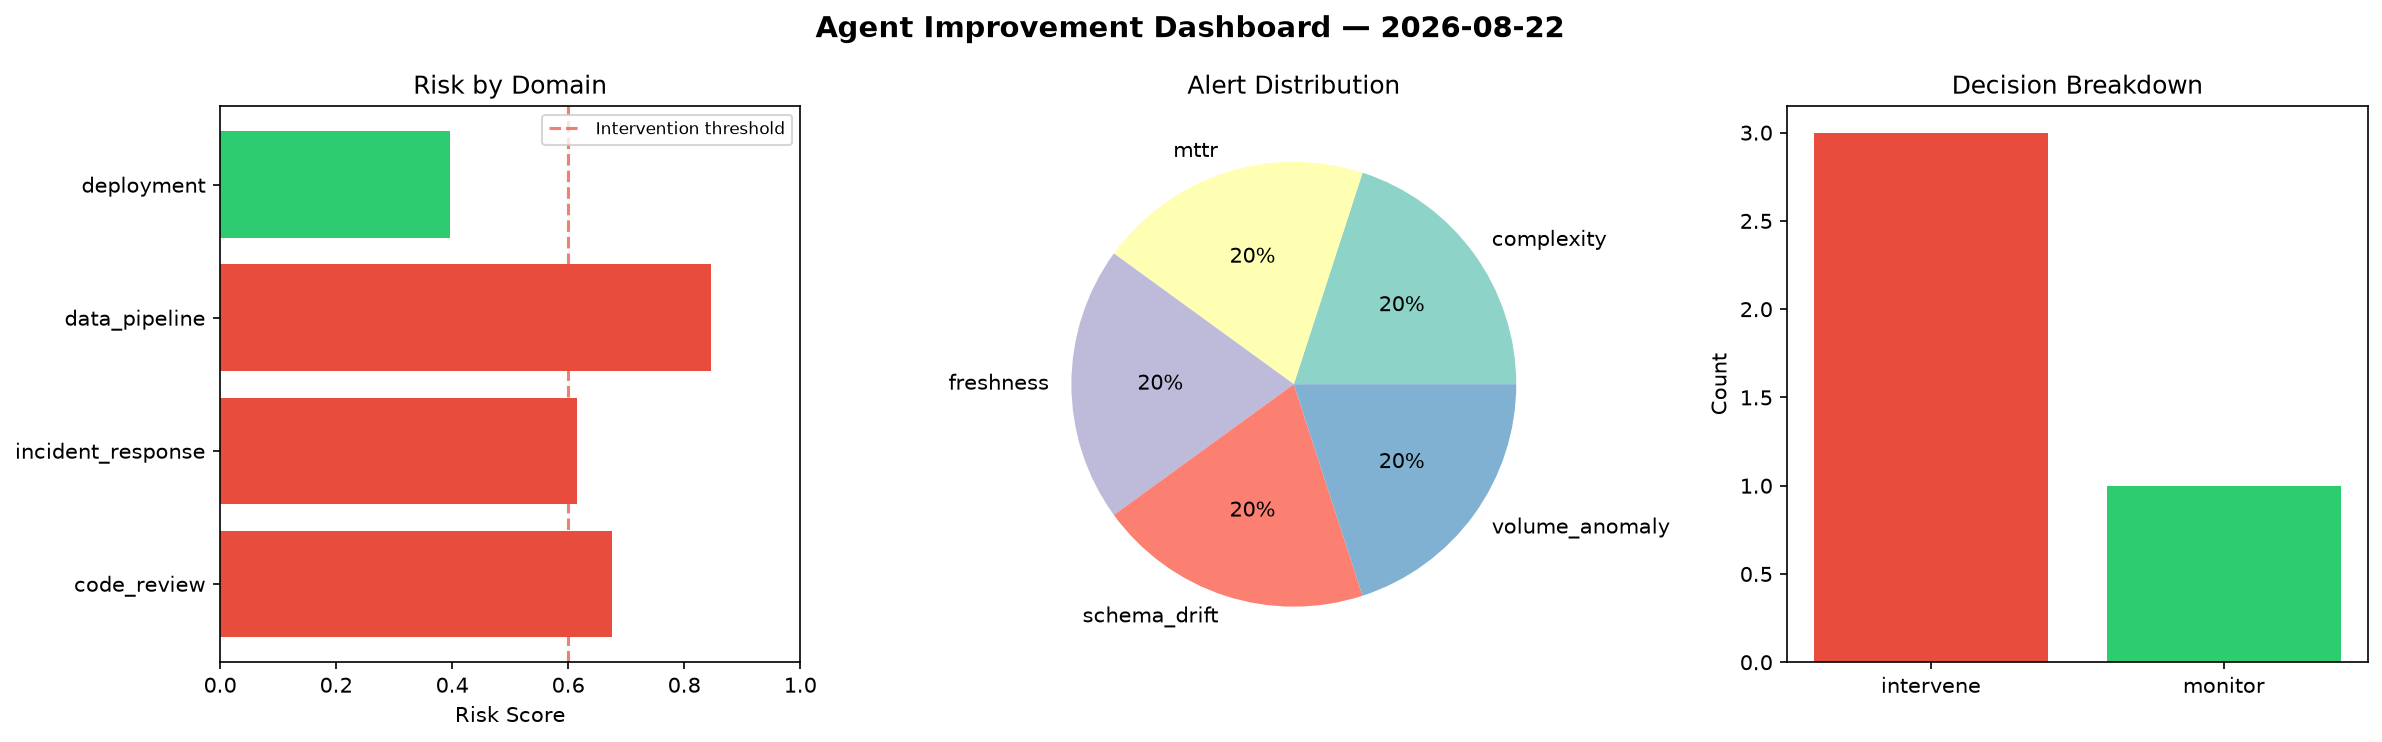
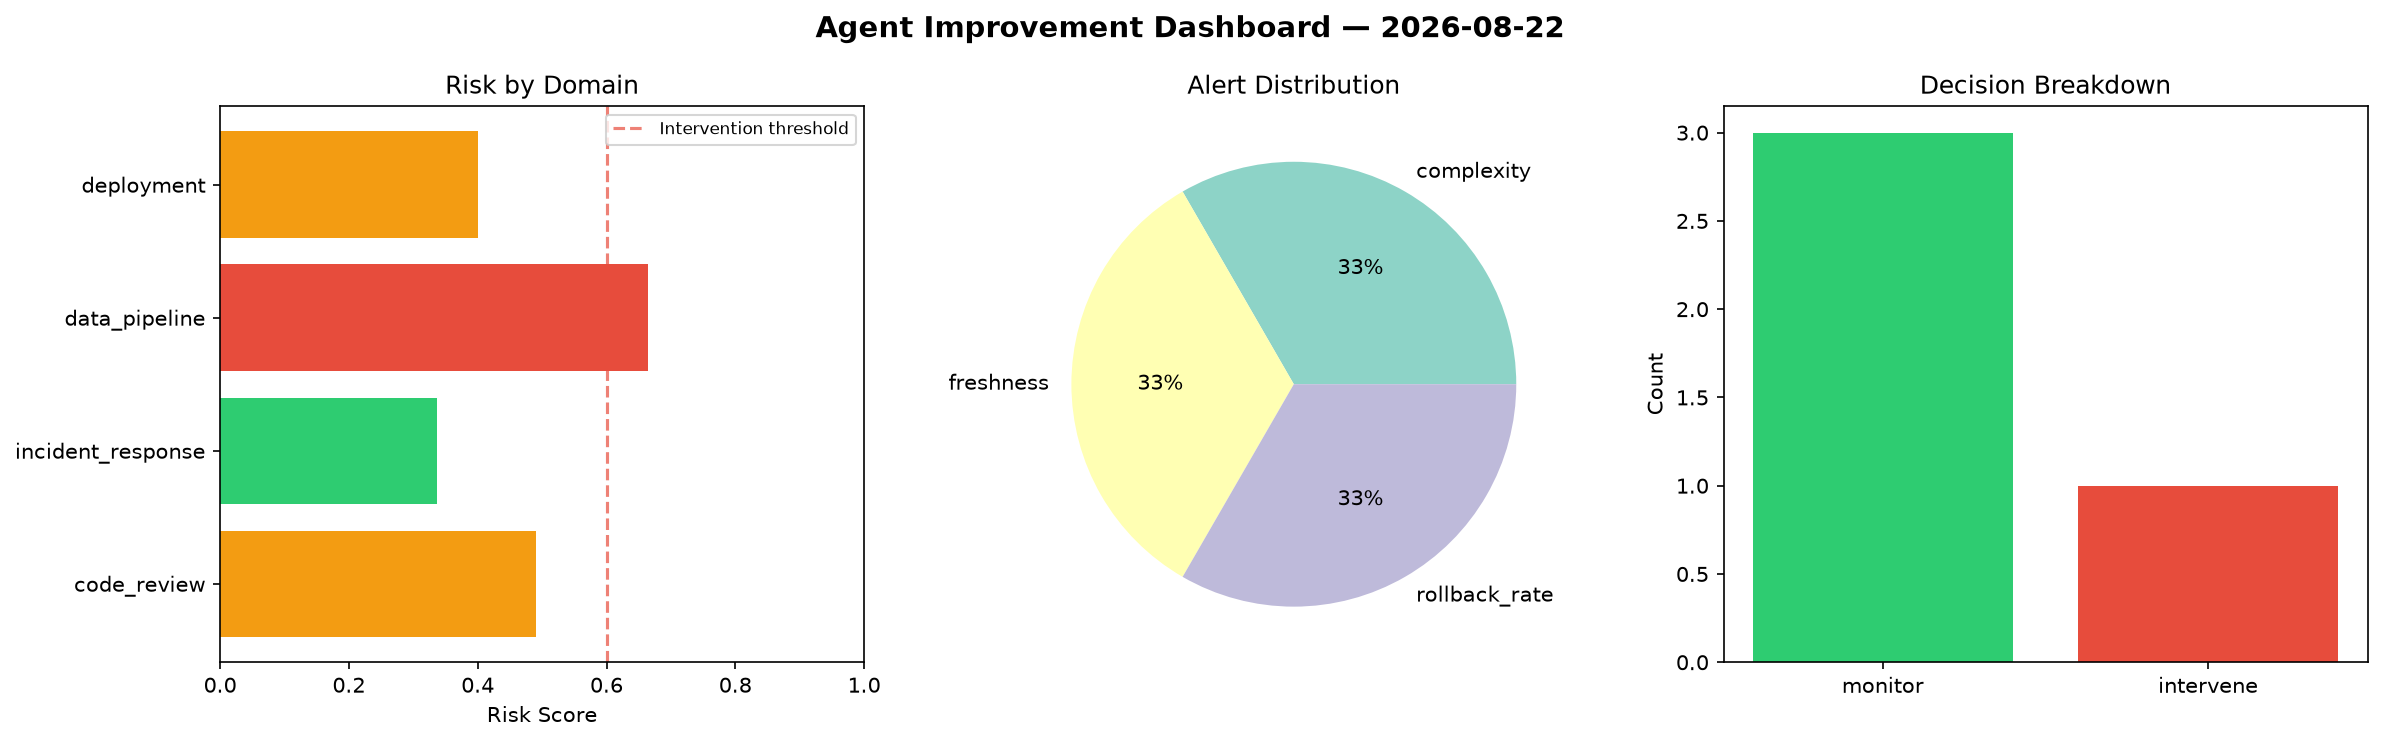
agent-improvement: daily cycle 2026-08-22T20:37

diff --git a/logs/2026-08-22.md b/logs/2026-08-22.md
@@ -1,6 +1,6 @@
 # Agent Improvement Report — 2026-08-22
 
-**Cycle ID:** `5ff9ddb6` | **Avg Risk:** 0.6333 | **Interventions:** 3/4
+**Cycle ID:** `7d83e4b7` | **Avg Risk:** 0.4732 | **Interventions:** 1/4
 
 ![Dashboard](2026-08-22_dashboard.png)
 
@@ -10,18 +10,18 @@
 
 | Domain | Risk Score | Decision | Alerts |
 |--------|-----------|----------|--------|
-| code_review | 0.6751 | intervene | complexity |
-| incident_response | 0.6144 | intervene | mttr |
-| data_pipeline | 0.8466 | intervene | freshness, schema_drift, volume_anomaly |
-| deployment | 0.397 | monitor | none |
+| code_review | 0.4906 | monitor | complexity |
+| incident_response | 0.337 | monitor | none |
+| data_pipeline | 0.6645 | intervene | freshness |
+| deployment | 0.4008 | monitor | rollback_rate |
 
 ## Delta vs Yesterday
 
 | Domain | Today | Yesterday | Change |
 |--------|-------|-----------|--------|
-| code_review | 0.6751 | 0.3778 | 📈 78.7% |
-| incident_response | 0.6144 | 0.6189 | 📉 -0.7% |
-| data_pipeline | 0.8466 | 0.8405 | 📈 0.7% |
-| deployment | 0.397 | 0.7566 | 📉 -47.5% |
+| code_review | 0.4906 | 0.3778 | 📈 29.9% |
+| incident_response | 0.337 | 0.6189 | 📉 -45.5% |
+| data_pipeline | 0.6645 | 0.8405 | 📉 -20.9% |
+| deployment | 0.4008 | 0.7566 | 📉 -47.0% |
 
 **Refinement:** `{'adjustment': 'maintain', 'trend': 'improving', 'window': 4}`
